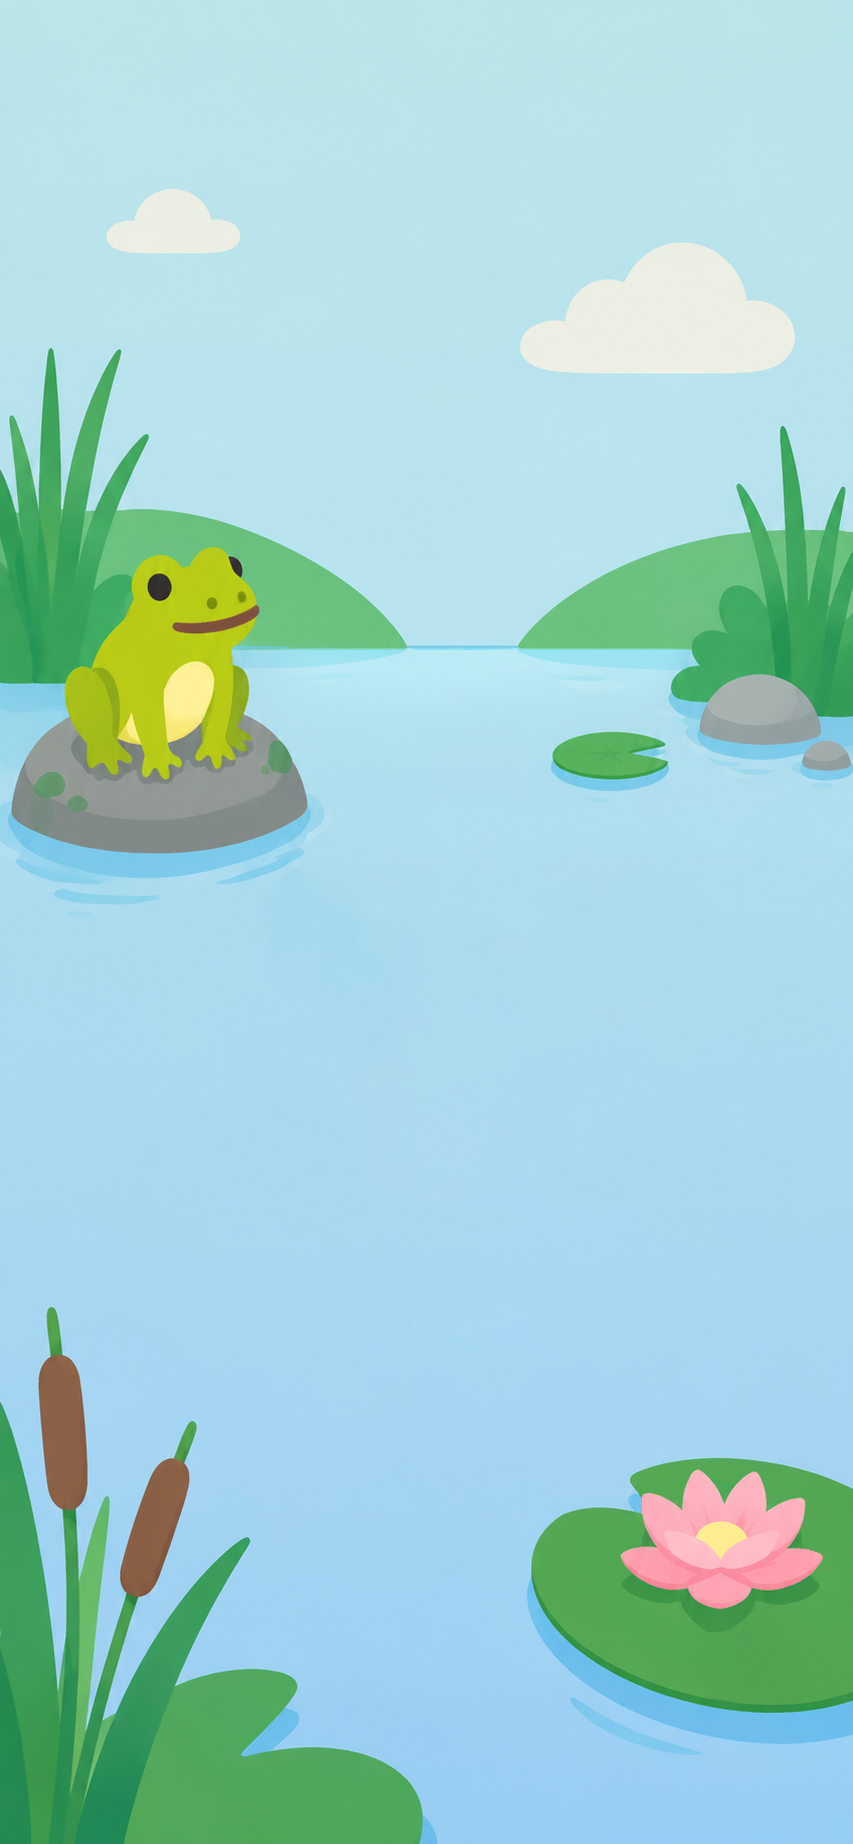
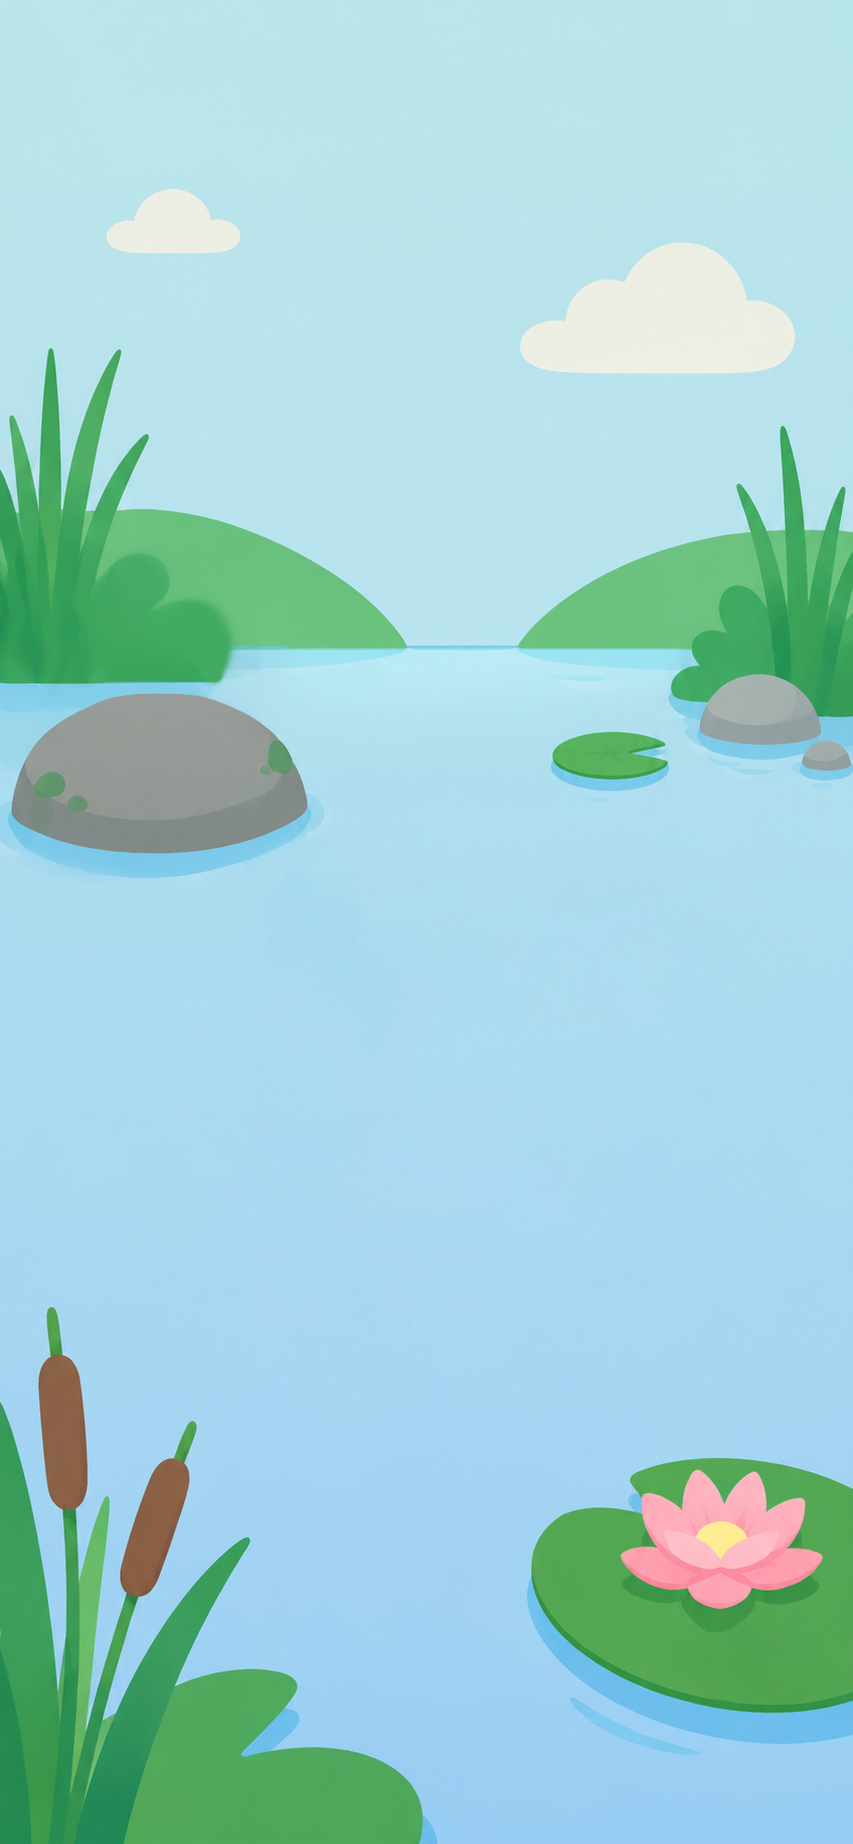
Add frog blink and ribbit animations
Replace the background art with a version that has the frog cut
out, and add it back as a separate overlay so it can animate on its
own. The overlay doubles as the invisible "go back a step" tap
target on step screens (replacing the old frog-back-button) and is
purely decorative on the Start/All Done screens.

Extracted 48-frame blink and 32-frame ribbit sprite strips from the
provided clips, cropped and scaled consistently with the static
frog so swapping between them never shifts or resizes it. Frames
are stepped by hand via requestAnimationFrame with pixel-exact
background-position offsets rather than a CSS steps() animation,
since steps() over a percentage-based background-position bled in
slivers of the neighboring frame at the non-integer scale factors
this box ends up at - glaring on the ribbit strip where adjacent
frames differ a lot.

A recurring timer cuts in a random blink or ribbit every 3-10
seconds whenever the frog is on screen.

Changed region(s): [[0.061, 0.2782, 0.3048, 0.4328], [0.0305, 0.4637, 0.1829, 0.4946], [0.2743, 0.4637, 0.3353, 0.4946]]

diff --git a/script.js b/script.js
@@ -56,6 +56,95 @@ const state = {
 const app = document.getElementById("app");
 const canvas = document.getElementById("canvas");
 
+const FROG_ANIM_MIN_DELAY_MS = 3000;
+const FROG_ANIM_MAX_DELAY_MS = 10000;
+const FROG_STILL_SRC = "images/frog-still.png";
+const FROG_BLINK_SRC = "images/frog-blink-strip.png";
+const FROG_RIBBIT_SRC = "images/frog-ribbit-strip.png";
+const FROG_BLINK_FRAME_COUNT = 48;
+const FROG_BLINK_DURATION_MS = 2000;
+const FROG_RIBBIT_FRAME_COUNT = 32;
+const FROG_RIBBIT_DURATION_MS = 4000;
+
+let frogEl = null;
+let frogAnimating = false;
+
+// Creates the frog overlay (the background art has the frog cut out so
+// it can blink/ribbit on its own). On step screens it's also an
+// invisible "go back a step" tap target, matching where the frog used
+// to be baked into the art; on the Start/All Done screens it's purely
+// decorative and lets clicks pass through to their own handlers.
+function createFrogOverlay({ clickable }) {
+  const el = document.createElement(clickable ? "button" : "div");
+  el.className = "frog-overlay";
+  if (clickable) {
+    el.setAttribute("aria-label", "Go back a step");
+    el.addEventListener("click", (event) => {
+      event.stopPropagation();
+      goToPreviousStep();
+    });
+  }
+  canvas.appendChild(el);
+  frogEl = el;
+  frogAnimating = false;
+  return el;
+}
+
+// Steps through a sprite strip by hand, computing pixel-exact frame
+// offsets from the element's own rendered size rather than relying on
+// a CSS steps() animation over a percentage background-position: at
+// non-integer scale factors that leaves faint bleed from the
+// neighboring frame at the edges, which is glaring on a strip like the
+// ribbit's where adjacent frames differ a lot.
+function playFrogSprite(el, src, frameCount, durationMs, onDone) {
+  const rect = el.getBoundingClientRect();
+  const frameW = Math.round(rect.width);
+  const frameH = Math.round(rect.height);
+  el.style.backgroundImage = `url("${src}")`;
+  el.style.backgroundSize = `${frameW * frameCount}px ${frameH}px`;
+  el.style.backgroundPosition = "0px 0px";
+
+  const start = performance.now();
+  function step(now) {
+    if (!canvas.contains(el)) return; // torn down by a render() mid-animation
+    const elapsed = now - start;
+    const frame = Math.min(frameCount - 1, Math.floor((elapsed / durationMs) * frameCount));
+    el.style.backgroundPosition = `-${frame * frameW}px 0px`;
+    if (elapsed < durationMs) {
+      requestAnimationFrame(step);
+    } else {
+      onDone();
+    }
+  }
+  requestAnimationFrame(step);
+}
+
+function playFrogAnimation() {
+  if (!frogEl || !canvas.contains(frogEl) || frogAnimating) return;
+  frogAnimating = true;
+  const el = frogEl;
+  const isRibbit = Math.random() < 0.5;
+  const src = isRibbit ? FROG_RIBBIT_SRC : FROG_BLINK_SRC;
+  const frameCount = isRibbit ? FROG_RIBBIT_FRAME_COUNT : FROG_BLINK_FRAME_COUNT;
+  const duration = isRibbit ? FROG_RIBBIT_DURATION_MS : FROG_BLINK_DURATION_MS;
+  playFrogSprite(el, src, frameCount, duration, () => {
+    if (canvas.contains(el)) {
+      el.style.backgroundImage = `url("${FROG_STILL_SRC}")`;
+      el.style.backgroundSize = "100% 100%";
+      el.style.backgroundPosition = "0px 0px";
+    }
+    frogAnimating = false;
+  });
+}
+
+function scheduleNextFrogAnimation() {
+  const delay = FROG_ANIM_MIN_DELAY_MS + Math.random() * (FROG_ANIM_MAX_DELAY_MS - FROG_ANIM_MIN_DELAY_MS);
+  setTimeout(() => {
+    playFrogAnimation();
+    scheduleNextFrogAnimation();
+  }, delay);
+}
+
 function playChime() {
   try {
     const ctx = new (window.AudioContext || window.webkitAudioContext)();
@@ -195,14 +284,7 @@ function render() {
     }
   }
 
-  const backButton = document.createElement("button");
-  backButton.className = "frog-back-button";
-  backButton.setAttribute("aria-label", "Go back a step");
-  backButton.addEventListener("click", (event) => {
-    event.stopPropagation();
-    goToPreviousStep();
-  });
-  canvas.appendChild(backButton);
+  createFrogOverlay({ clickable: true });
 
   const card = document.createElement("div");
   card.className = "step-card has-button";
@@ -258,6 +340,8 @@ function render() {
 }
 
 function renderStart() {
+  createFrogOverlay({ clickable: false });
+
   const card = document.createElement("div");
   card.className = "step-card has-button";
 
@@ -480,6 +564,7 @@ function goToPreviousStep() {
 
 function renderComplete() {
   spawnConfetti();
+  createFrogOverlay({ clickable: false });
 
   const card = document.createElement("div");
   card.className = "complete-card";
@@ -627,4 +712,5 @@ document.addEventListener("visibilitychange", () => {
 
 requestWakeLock();
 scheduleNextButterfly();
+scheduleNextFrogAnimation();
 render();

diff --git a/style.css b/style.css
@@ -39,7 +39,7 @@ body {
    effect as background-size:cover), then centered - the overshoot on
    one axis is what #app's overflow:hidden clips. Because this element
    itself never distorts, every overlay positioned as a percentage of
-   it (button, reflection, progress bar, frog back-button) stays perfectly registered
+   it (button, reflection, progress bar, frog overlay) stays perfectly registered
    with the art regardless of screen shape. */
 #canvas {
   position: absolute;
@@ -104,20 +104,27 @@ body {
   max-width: 480px;
 }
 
-/* Invisible tap target over the frog's spot in the background art
-   (see FROG_CROAK_BOX in script.js history for these coordinates) -
-   lets a caregiver jump back a step at any time. */
-.frog-back-button {
+/* The frog is a separate overlay (the background art now has it cut
+   out) so it can blink/ribbit independently of the static pond scene.
+   On step screens it also doubles as an invisible "go back a step"
+   tap target, matching where it used to be baked into the art. */
+.frog-overlay {
   position: absolute;
-  left: -0.9%;
-  top: 25.2%;
-  width: 40%;
-  height: 18.2%;
+  left: 0%;
+  top: 26.5%;
+  width: 42%;
+  height: 19.5%;
   border: none;
-  background: transparent;
+  background-color: transparent;
+  background-image: url("images/frog-still.png");
+  background-size: 100% 100%;
+  background-repeat: no-repeat;
   padding: 0;
-  cursor: pointer;
   z-index: 6;
+}
+
+button.frog-overlay {
+  cursor: pointer;
 }
 
 .pond-reflection {

diff --git a/sw.js b/sw.js
@@ -1,4 +1,4 @@
-const CACHE_NAME = "potty-time-v19";
+const CACHE_NAME = "potty-time-v20";
 const APP_SHELL = [
   "./",
   "./index.html",
@@ -25,6 +25,9 @@ const APP_SHELL = [
   "./images/pond-button-reflection.png",
   "./images/bubble.png",
   "./images/butterfly.png",
+  "./images/frog-still.png",
+  "./images/frog-blink-strip.png",
+  "./images/frog-ribbit-strip.png",
 ];
 
 self.addEventListener("install", (event) => {
